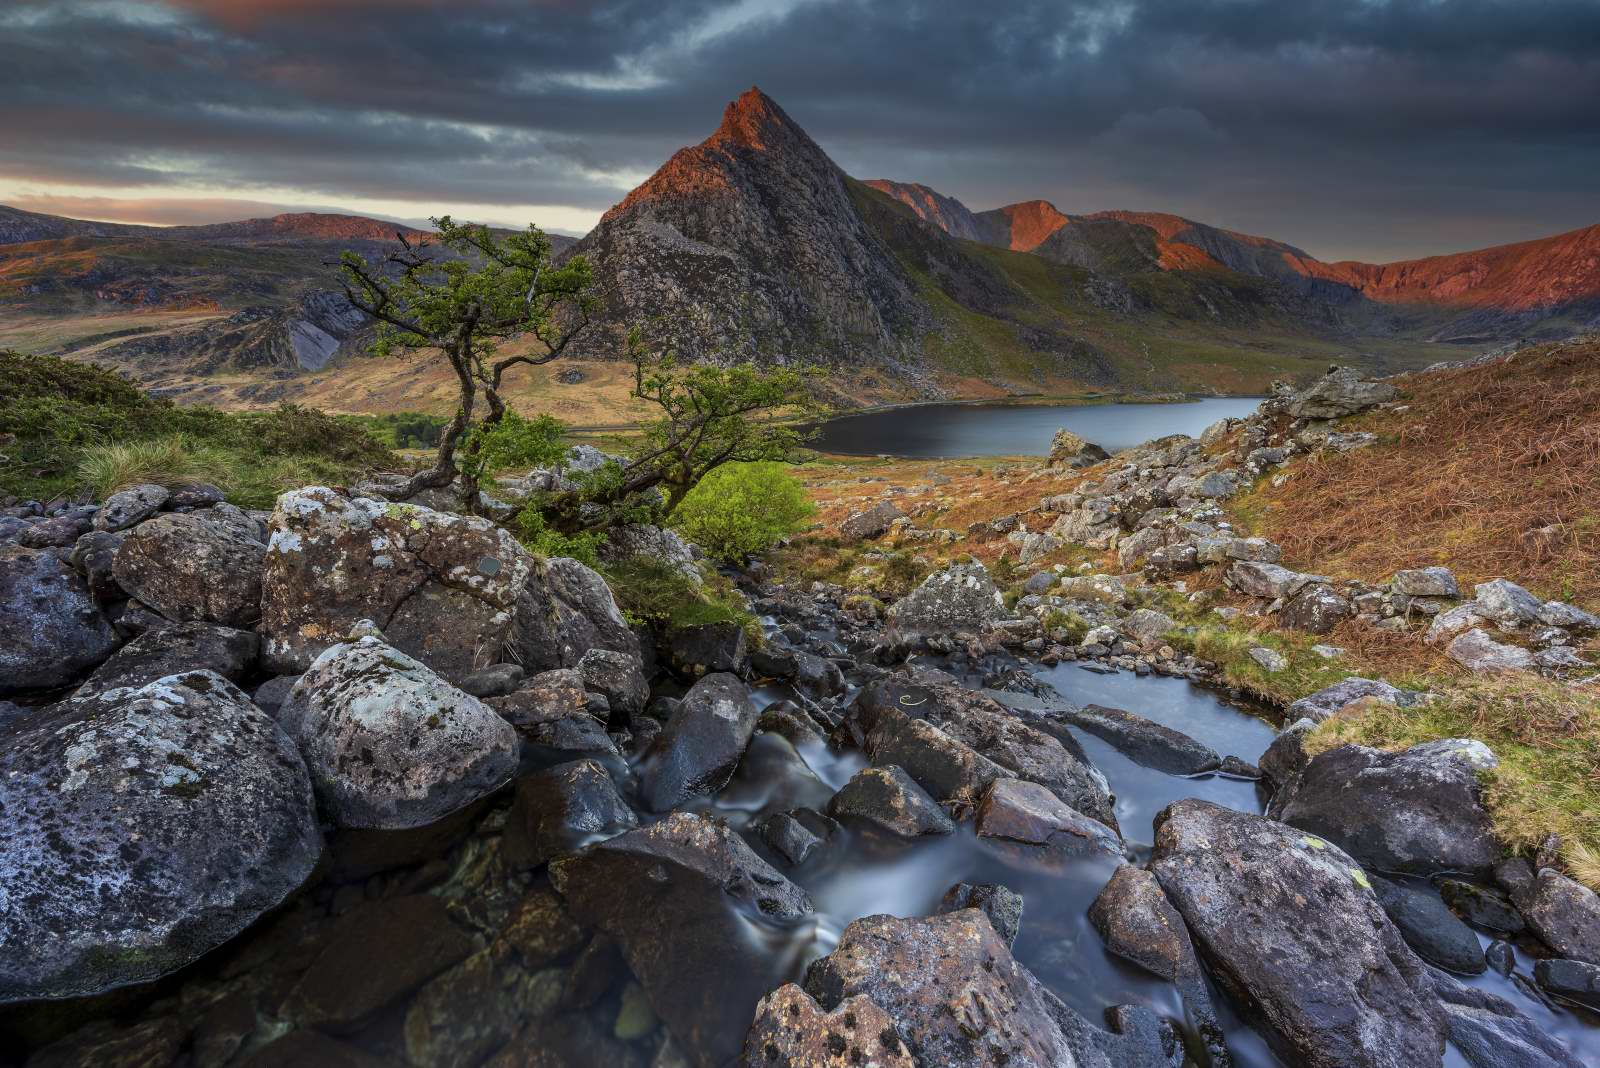
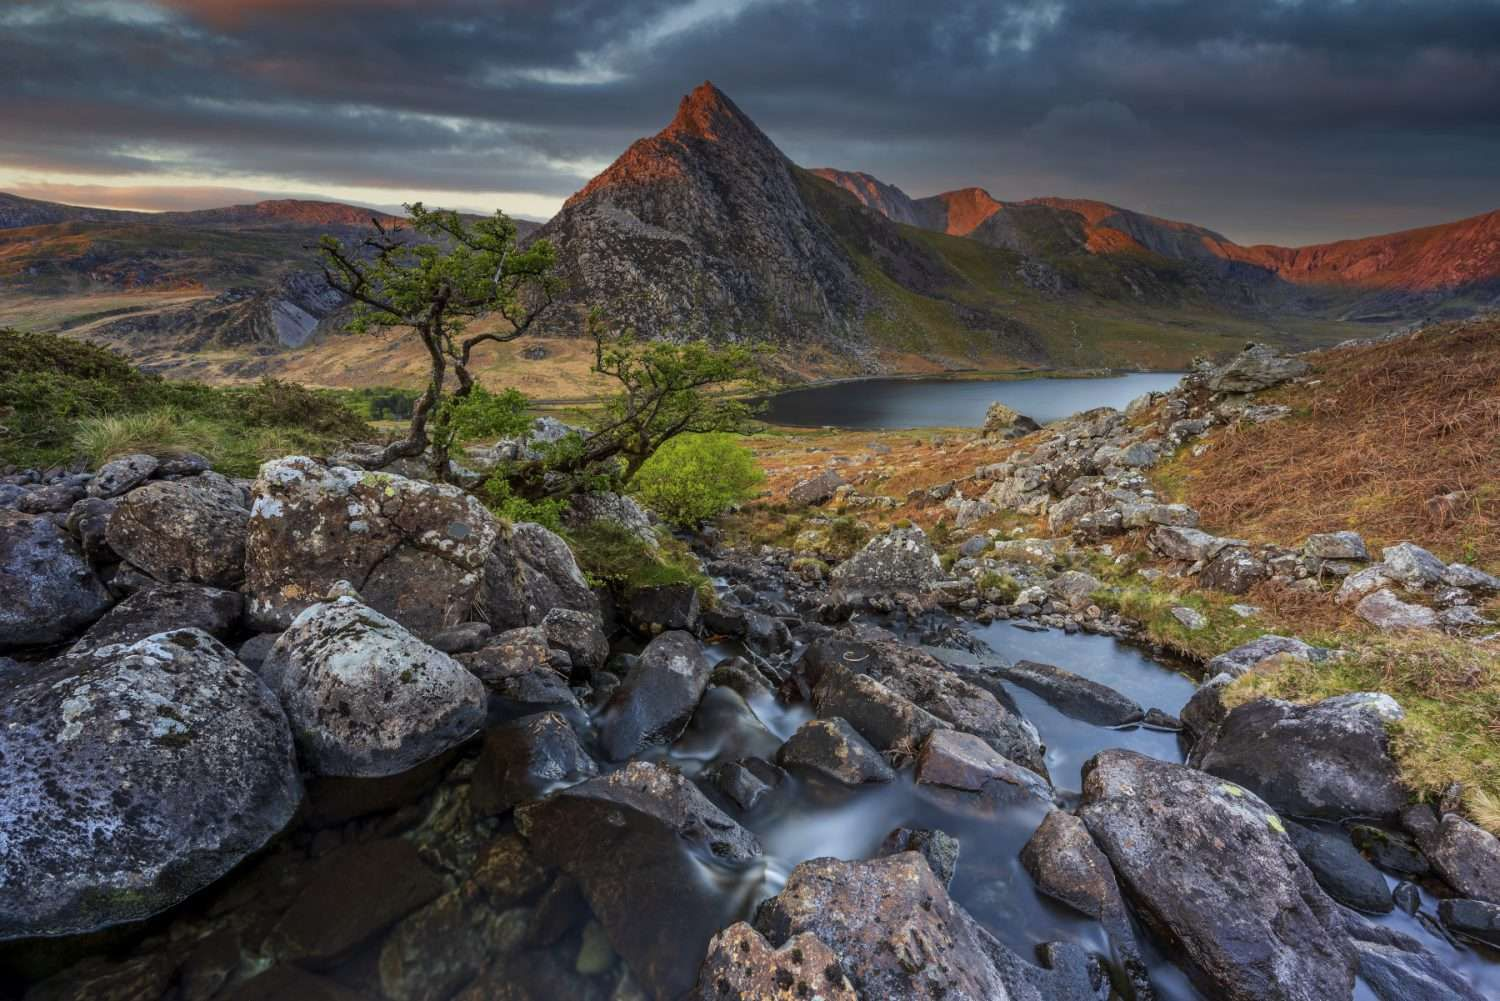
fix : lock homepage map motiff to full container size

diff --git a/frontend/src/styles/pages.css b/frontend/src/styles/pages.css
@@ -54,13 +54,19 @@
 }
 
 .hero__map-motif--one {
-  right: clamp(3rem, 8vw, 8rem);
+  right: max(
+    clamp(3rem, 8vw, 8rem),
+    calc((100vw - var(--container-width)) / 2 + 2rem)
+  );
   top: clamp(8rem, 18vh, 12rem);
   width: clamp(220px, 30vw, 420px);
 }
 
 .hero__map-motif--two {
-  right: clamp(8rem, 18vw, 16rem);
+  right: max(
+    clamp(8rem, 18vw, 16rem),
+    calc((100vw - var(--container-width)) / 2 + 8rem)
+  );
   top: clamp(14rem, 28vh, 18rem);
   width: clamp(150px, 18vw, 260px);
   opacity: 0.32;
@@ -1684,7 +1690,7 @@
   height: 0.65rem;
   border-radius: 999px;
   background: var(--legend-colour);
-  box-shadow: 0 0 1rem color-mix(in srgb, var(--legend-colour) 70%, transparent);
+  box-shadow: 0 0 1rem color-mix(in srgb, var(--legend-colour) 30%, transparent);
 }
 
 .tour-locations-map__actions {

diff --git a/frontend/src/components/ui/TourLocationsMap.jsx b/frontend/src/components/ui/TourLocationsMap.jsx
@@ -173,7 +173,7 @@ function TourLocationsMap({ routes = [] }) {
       </div>
 
       <div className="tour-locations-map__actions">
-        <Link to="/routes" className="route-detail-action route-detail-action--link">
+        <Link to="/routes" className="button button--primary">
           Explore all mapped routes
         </Link>
       </div>